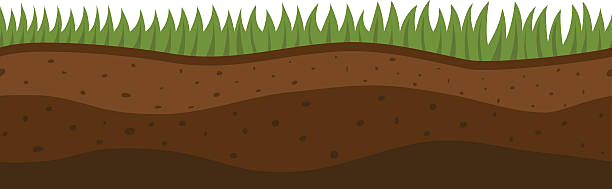
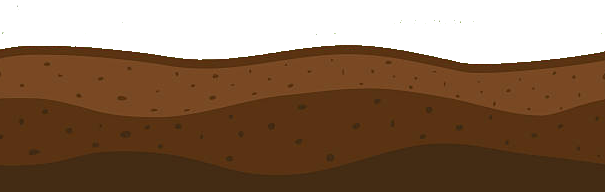
Make girl and ground  responsive

diff --git a/portfolio/src/components/jumpGirl/JumpGirl.js b/portfolio/src/components/jumpGirl/JumpGirl.js
@@ -21,7 +21,7 @@ class JumpGirl extends Component {
     new ScrollMagic.Scene({
       triggerElement: "#trigger1",
       triggerHook: 0.5, // show, when scrolled 10% into view
-      duration: "960" // hide 10% before exiting view (80% + 10% from bottom)
+      duration: "940" // hide 10% before exiting view (80% + 10% from bottom)
     })
       .setClassToggle("#reveal1", "visible") // add class to reveal
       // .setClassToggle("#reveal2", "visible2") // add class to reveal
@@ -49,7 +49,7 @@ class JumpGirl extends Component {
         <div class="spacer s2" />
           <div id="trigger1" class="spacer s0" />
           <div id="reveal1" class="box2 blue">
-            <img src={jump} alt="jump girl" />
+            <img src={jump} className="jumpGirl" alt="jump girl" />
           </div>
 
           <div class="spacer s2" />

diff --git a/portfolio/src/components/structure/Structure.css b/portfolio/src/components/structure/Structure.css
@@ -21,7 +21,7 @@
 
 .tree{
 	position: absolute;
-	top:470px;
+	top:500px;
 	
 	width:250px;
 }
@@ -43,14 +43,14 @@
 
 .kiwi{
 	position: absolute;
-	top:640px;
+	top:680px;
 	left:1930px;
 	width:100px;
 }
 
 .kiwi2{
 	position: absolute;
-	top:640px;
+	top:680px;
 	left:3330px;
 	width:100px;
 }
@@ -71,4 +71,21 @@
 	position:absolute;
 	top:0;
 	left:5600px;
+}
+
+@media only screen and (max-height: 800px) {
+	.tree{
+		top:350px;
+	}
+
+	.kiwi{
+		
+		top:550px;
+		
+	}
+	
+	.kiwi2{
+		
+		top:550px;
+	}
 }

diff --git a/portfolio/src/components/motion/Motion.css b/portfolio/src/components/motion/Motion.css
@@ -1,20 +1,23 @@
-#imagesequence{
-    
-    padding-bottom: 2000px;
-   
+#imagesequence {
+  padding-bottom: 2000px;
 }
 
 #imagesequence {
-    opacity: 0;
-    
+  opacity: 0;
 }
 #imagesequence.visible {
-    opacity: 1;
-   
+  opacity: 1;
 }
 
-#myimg{
-    z-index: 10;
-    position: relative;
-    top:550px;
+#myimg {
+  z-index: 10;
+  position: relative;
+  top: 550px;
+}
+
+@media only screen and (max-height: 800px) {
+  #myimg {
+    top: 480px;
+    width:250px;
+  }
 }

diff --git a/portfolio/src/components/structure/Structure.js b/portfolio/src/components/structure/Structure.js
@@ -56,7 +56,7 @@ class Structure extends Component {
          <img src={tools} alt="tools" className = "tools" />
          <ToolStack />
          <img className ="projects" src={projects} alt="projects" />
-         <img src={tree} alt="tree" id="tree3" className="tree"/>
+         {/* <img src={tree} alt="tree" id="tree3" className="tree"/> */}
          <Project2 /> 
          <img src={tree} alt="tree" id="tree4" className="tree"/>
          <Project1 />           

diff --git a/portfolio/src/components/ground/Ground.js b/portfolio/src/components/ground/Ground.js
@@ -1,7 +1,7 @@
 import React, { Component } from "react";
 import groundPic1 from "../../assets/images/ground.png";
 import groundPic2 from "../../assets/images/ground.png";
-import { TweenMax } from "gsap/TweenMax";
+
 // import TimelineMax from "gsap";
 import ScrollMagic from "ScrollMagic";
 import "scrollmagic/scrollmagic/uncompressed/plugins/animation.gsap";

diff --git a/portfolio/src/components/languageTable/LanguageTable.css b/portfolio/src/components/languageTable/LanguageTable.css
@@ -39,7 +39,7 @@
     margin-left:30px;
 }
 
-@media only screen and (max-height: 700px) {
+@media only screen and (max-height: 800px) {
     .languageLabel{
         width:200px;
         margin-bottom: 20px;

diff --git a/portfolio/src/components/ground/Ground.css b/portfolio/src/components/ground/Ground.css
@@ -4,10 +4,18 @@
 }
 
 #ground2{
-    width:50%
+    width:50%;
 }
 
 #ground1{
     width:50%
 }
 
+@media only screen and (max-height: 800px) {
+    #ground{
+        
+        top:-1520px;
+    }
+
+
+} 

diff --git a/portfolio/src/components/jumpGirl/JumpGirl.css b/portfolio/src/components/jumpGirl/JumpGirl.css
@@ -100,6 +100,19 @@
   padding-bottom: 30px;
 }
 
+@media only screen and (max-height: 800px) {
+.jumpGirl{
+  width:250px;
+}
+.skills{
+  
+  top:-1150px;
+ 
+  
+}
+
+}
+
 
 
 

diff --git a/portfolio/src/components/animationTable/AnimationTable.css b/portfolio/src/components/animationTable/AnimationTable.css
@@ -22,3 +22,10 @@
     width:90px;
 
 }
+
+@media only screen and (max-height: 800px) {
+    .animationLabel{
+        width:200px;
+        margin-bottom: 20px;
+    }
+}

diff --git a/portfolio/src/components/project2/Project2.css b/portfolio/src/components/project2/Project2.css
@@ -20,3 +20,11 @@
     left:1100px;
     width:200px;
 }
+
+@media only screen and (max-height: 800px) {
+    .project2{
+      
+        
+        top:120px;
+    }
+}

diff --git a/portfolio/src/components/project1/Project1.css b/portfolio/src/components/project1/Project1.css
@@ -26,3 +26,13 @@
     width:200px;
 
 }
+
+@media only screen and (max-height: 800px) {
+    .project1{
+        
+        top:120px;
+        
+    }
+    
+}
+    

diff --git a/portfolio/src/components/scrollLabel/ScrollLabel.css b/portfolio/src/components/scrollLabel/ScrollLabel.css
@@ -5,7 +5,7 @@
 
 .scrollWord {
   width: 25%;
-  margin-left:20px; 
+  margin-left:15px; 
   
   
 }
